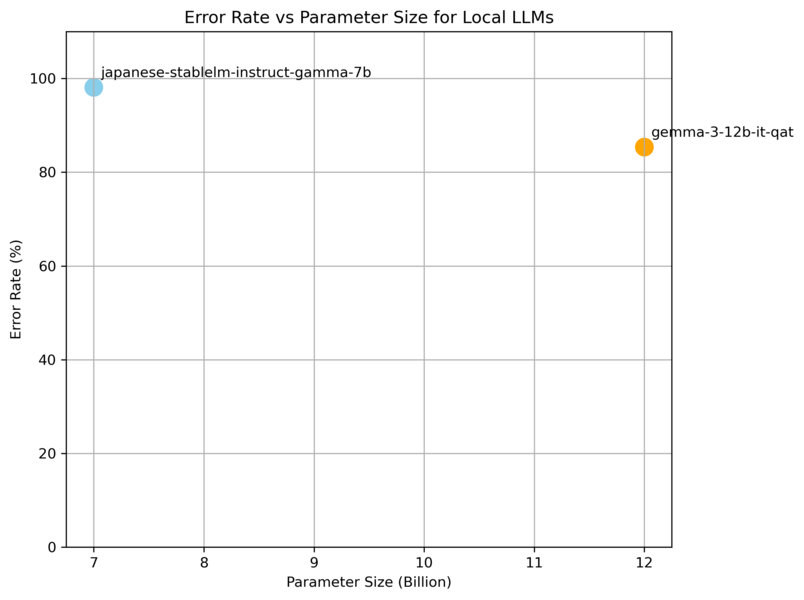
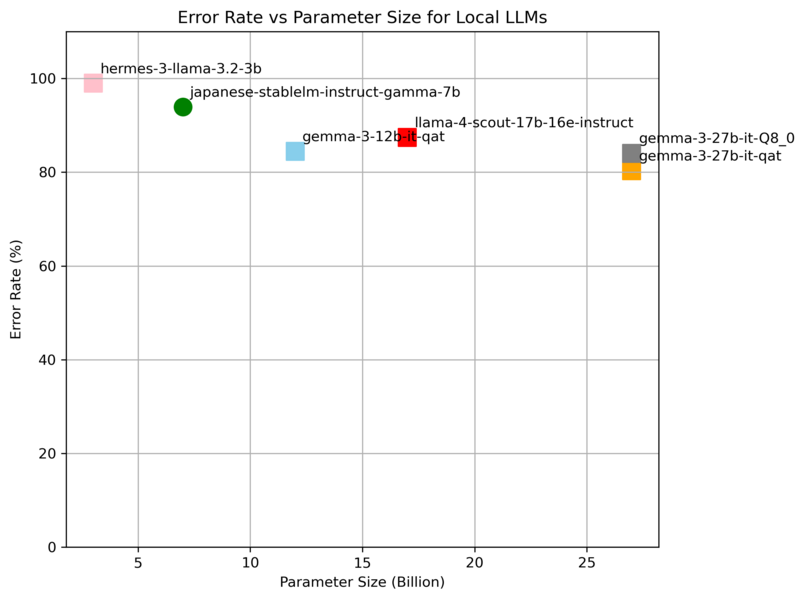
モデルのパラメーター数によりベンチマークを更新

diff --git a/benchmark/plot_errorrate_vs_paramsize.py b/benchmark/plot_errorrate_vs_paramsize.py
@@ -12,18 +12,42 @@ import argparse
 
 # モデル名リスト
 modules = [
+    'gemma-3-12b-it-qat',
+    'gemma-3-27b-it-qat',
+    'gemma-3-27b-it-Q8_0',
     'japanese-stablelm-instruct-gamma-7b',
-    'gemma-3-12b-it-qat'
+    'hermes-3-llama-3.2-3b',
+    'llama-4-scout-17b-16e-instruct',
+    'llama-3.3-70b-instruct',
 ]
-# エラー率 (比率: 0.05 == 5%)
+# エラー率 (mean CER)
 error_rates = [
-    0.981412,
-    0.853688
+    0.844450,
+    0.803389,
+    0.839824,
+    0.939121,
+    0.989908,
+    0.874311,
+    0.902066,
 ]
 # パラメータ数 (ビリオン単位)
 param_sizes = [
+    12,
+    27,
+    27,
     7,
-    12
+    3,
+    17,
+    70,
+]
+markers = [
+    's',
+    's',
+    's',
+    'o',
+    's',
+    's',
+    's',
 ]
 
 # カラー設定 (モデル数に合わせて調整)
@@ -32,9 +56,9 @@ colors = base_colors[:len(modules)]
 
 plt.figure(figsize=(8, 6))
 # 散布図: x=Parameter Size (Billion), y=Error Rate (%)
-for name, err, size, c in zip(modules, error_rates, param_sizes, colors):
+for name, err, size, marker, c in zip(modules, error_rates, param_sizes, markers, colors):
     pct = err * 100
-    plt.scatter(size, pct, s=150, color=c)
+    plt.scatter(size, pct, s=150, color=c, marker=marker)
     plt.annotate(name,
                  xy=(size, pct),
                  xytext=(5, 5),
